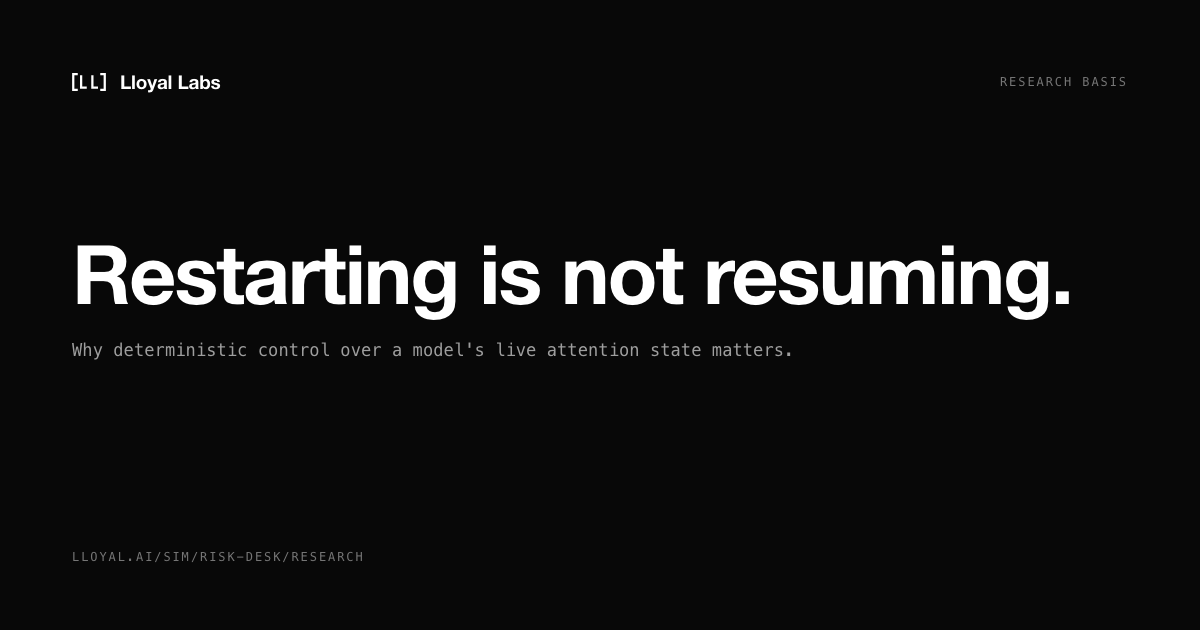
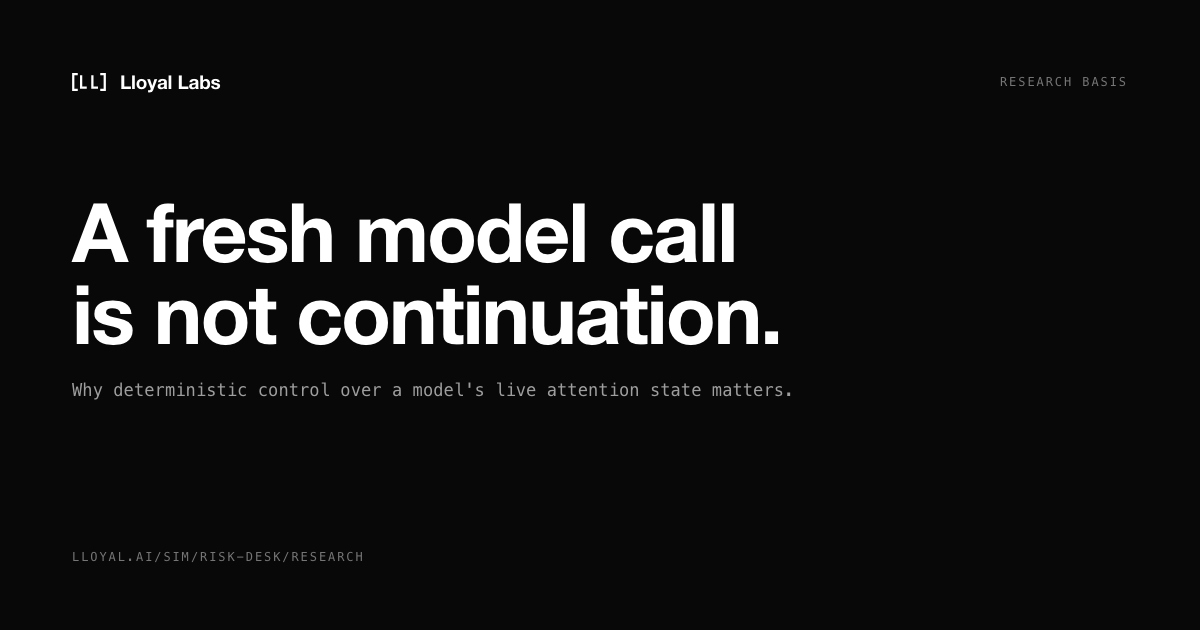
site: the research basis, revised
The thesis line becomes "The transcript can survive. The execution
already underway does not." and the conflict finding becomes
"Superseding evidence is not just more context" — both closer to what
the simulation now shows.

Card follows: "A fresh model call is not continuation." The previous
headline named the remedy; this one names what the reader is doing
wrong. The alt text already said so, so the image was the thing out of
step.

Changed region(s): [[0.0617, 0.3016, 0.8942, 0.573], [0.0617, 0.6032, 0.6475, 0.6333]]

diff --git a/public/sim/risk-desk/research.html b/public/sim/risk-desk/research.html
@@ -362,7 +362,7 @@
   <meta property="og:image:width" content="1200">
   <meta property="og:image:height" content="630">
   <meta property="og:image:type" content="image/png">
-  <meta property="og:image:alt" content="Restarting is not resuming. The research basis for Lloyal live-attention control.">
+  <meta property="og:image:alt" content="A fresh model call is not continuation. The research basis for Lloyal live-attention control.">
   <meta property="og:url" content="https://lloyal.ai/sim/risk-desk/research">
   <meta property="og:site_name" content="LLoyal Labs">
   <meta property="og:locale" content="en_AU">
@@ -371,7 +371,7 @@
   <meta name="twitter:title" content="Why control over live attention matters">
   <meta name="twitter:description" content="Why Lloyal's deterministic control over live attention state matters — published research and operating evidence.">
   <meta name="twitter:image" content="https://lloyal.ai/assets/sim-risk-desk-research-og.png">
-  <meta name="twitter:image:alt" content="Restarting is not resuming. The research basis for Lloyal live-attention control.">
+  <meta name="twitter:image:alt" content="A fresh model call is not continuation. The research basis for Lloyal live-attention control.">
 </head>
 <body>
   <main class="page">
@@ -394,15 +394,15 @@
         <ul>
           <li><strong>Calling a model endpoint again is a new draw, not continuation.</strong> Agent runs diverge early, and nominally deterministic hosted settings do not guarantee the same execution.</li>
           <li><strong>New evidence creates a control problem inside inference.</strong> Applications need to decide which live trajectories receive it, what may continue and which state can become the future—not merely append another prompt chunk.</li>
-          <li><strong>Lloyal makes the instantiated trajectory application state.</strong> Application code can hold a lineage, admit evidence only where it applies, fork from that exact parent state and determine what may continue—without starting intelligence again from its transcript.</li>
+          <li><strong>Lloyal makes the instantiated trajectory application state.</strong> Application code can hold a lineage, admit evidence only where it applies, fork from that exact parent state and determine what may continue—without assembling a new prompt from the transcript and starting another model execution.</li>
         </ul>
       </div>
     </section>
 
     <section class="thesis wrap">
       <div class="thesis-grid">
-        <h2>Restarting preserves a transcript. It does not preserve the execution already underway.</h2>
-        <p><strong>The literature converges on four pressures:</strong> reruns diverge early, hosted calls vary under nominally deterministic settings, corrected evidence creates a conflict problem, and replaying a transcript cannot recover the live state that produced it.</p>
+        <h2>The transcript can survive. The execution already underway does not.</h2>
+        <p><strong>Three findings are empirical:</strong> independent runs diverge early, hosted calls vary under nominally deterministic settings, and conflict and position affect how evidence is used. <strong>The architectural fact is simpler:</strong> a transcript records an execution’s outputs, not the live model state that produced them.</p>
       </div>
     </section>
 
@@ -434,7 +434,7 @@
 
       <article class="finding">
         <div class="finding-num">03</div>
-        <h3>A corrected fact is not merely another prompt chunk.</h3>
+        <h3>Superseding evidence is not just more context.</h3>
         <div class="finding-copy">
           <p>Models often recognise that evidence conflicts while struggling to pinpoint the conflicting spans and generate robust responses. Separate ICLR research found confirmation bias when supportive and contradictory evidence coexist.</p>
           <a class="paper-link" href="https://arxiv.org/abs/2310.00935" target="_blank" rel="noopener">Resolving Knowledge Conflicts</a><br>
@@ -447,7 +447,7 @@
         <div class="finding-num">04</div>
         <h3>Where evidence appears changes whether it is used.</h3>
         <div class="finding-copy">
-          <p>Peer-reviewed TACL research found that changing the position of relevant information can significantly change model performance. Results were often strongest at the beginning or end of the context and degraded in the middle—even for long-context models. Rebuilding a prompt or appending a correction is not semantically neutral.</p>
+          <p>Peer-reviewed TACL research found that changing the position of relevant information can significantly change model performance. Results were often strongest at the beginning or end of the context and degraded in the middle—even for long-context models. Where the transcript and new evidence appear in a fresh prompt can change how the model uses them.</p>
           <a class="paper-link" href="https://aclanthology.org/2024.tacl-1.9/" target="_blank" rel="noopener">Lost in the Middle</a>
         </div>
         <div class="metric green"><strong>Position matters</strong><span>Inside supported context</span></div>
@@ -457,7 +457,7 @@
     <div class="signal-strip" aria-label="Research convergence">
       <div class="signal"><div class="label">Reliability</div><strong>Agent reruns are not behaviourally interchangeable.</strong></div>
       <div class="signal"><div class="label">Inference</div><strong>A fresh endpoint call cannot resume the same instantiated execution.</strong></div>
-      <div class="signal"><div class="label">Evidence</div><strong>Stale and corrected facts create a reasoning conflict.</strong></div>
+      <div class="signal"><div class="label">Evidence</div><strong>Old and superseding evidence create a reasoning conflict.</strong></div>
       <div class="signal"><div class="label">Admission</div><strong>Where evidence enters can change whether it is used.</strong></div>
     </div>
 
@@ -473,19 +473,19 @@
         <article class="source">
           <div class="rank">01</div>
           <div><h3>On Randomness in Agentic Evals</h3><div class="meta">Bjarnason, Silva &amp; Monperrus · KTH · arXiv preprint v3 · 2026</div></div>
-          <p>The most direct support for “a restart is a new trajectory,” backed by 60,000 agent runs and token-level divergence analysis.</p>
+          <p>The most direct support that an independent rerun becomes a new trajectory, backed by 60,000 agent runs and token-level divergence analysis.</p>
           <a class="paper-link" href="https://arxiv.org/abs/2602.07150" target="_blank" rel="noopener">Read paper</a>
         </article>
         <article class="source">
           <div class="rank">02</div>
           <div><h3>Non-Determinism of “Deterministic” LLM System Settings</h3><div class="meta">Atil et al. · Eval4NLP / ACL · 2025</div></div>
-          <p>The peer-reviewed anchor for why a restarted hosted request is not guaranteed to recreate the discarded run.</p>
+          <p>The peer-reviewed anchor for why a fresh hosted request is not guaranteed to recreate the discarded run.</p>
           <a class="paper-link" href="https://aclanthology.org/2025.eval4nlp-1.12/" target="_blank" rel="noopener">Read paper</a>
         </article>
         <article class="source">
           <div class="rank">03</div>
           <div><h3>Resolving Knowledge Conflicts in Large Language Models</h3><div class="meta">Wang et al. · Berkeley / UW / CMU · 2024 revision</div></div>
-          <p>The strongest basis for why leaving the superseded and corrected filings together is not a clean substitute for controlled applicability.</p>
+          <p>The strongest basis for why leaving provisional and final terms together is not a clean substitute for controlled applicability.</p>
           <a class="paper-link" href="https://arxiv.org/abs/2310.00935" target="_blank" rel="noopener">Read paper</a>
         </article>
         <article class="source">
@@ -503,7 +503,7 @@
         <article class="source">
           <div class="rank">06</div>
           <div><h3>Stateful Large Language Model Serving with Pensieve</h3><div class="meta">Yu, Lin &amp; Li · EuroSys · 2025</div></div>
-          <p>The systems anchor for the repeated-work claim: processed state retained across requests rather than reconstructed from the history log.</p>
+          <p>The systems anchor for the repeated-work claim: processed state retained across requests rather than recomputed from the history log.</p>
           <a class="paper-link" href="https://dl.acm.org/doi/10.1145/3689031.3696086" target="_blank" rel="noopener">Read paper</a>
         </article>
       </div>
@@ -577,13 +577,13 @@
       <div class="claim-grid">
         <article class="claim supported">
           <div class="status label">Published research</div>
-          <strong>Restarting is not guaranteed continuation.</strong>
+          <strong>Running the model again is not behaviourally interchangeable.</strong>
           <p>Research directly demonstrates early agent-trajectory divergence and hosted-call variation.</p>
         </article>
         <article class="claim supported">
           <div class="status label">Published research</div>
-          <strong>Reconstructed context is not semantically neutral.</strong>
-          <p>Conflict, ordering and evidence position can materially change how a model reasons.</p>
+          <strong>A fresh prompt can change how prior and new evidence are used.</strong>
+          <p>Conflict, ordering and evidence position can materially change model behaviour.</p>
         </article>
         <article class="claim operating">
           <div class="status label">Lloyal operating evidence</div>
@@ -593,7 +593,7 @@
         <article class="claim definition">
           <div class="status label">What deterministic means</div>
           <strong>Control over live state—not a promise of identical future tokens.</strong>
-          <p>The application deterministically chooses which exact trajectory is held, forked, admitted, continued or pruned. Generation after that decision can remain stochastic.</p>
+          <p>The application deterministically chooses which lineage is held, forked, continued or pruned—and which evidence each lineage receives. Generation after those choices may remain stochastic.</p>
         </article>
       </div>
     </section>
@@ -602,7 +602,7 @@
       <div class="close-grid">
         <div class="label">The architectural shift</div>
         <blockquote>When the world changes during a valuable agent run, conventional applications can preserve a transcript and start another call. Lloyal makes the execution already underway an object ordinary application code can govern.</blockquote>
-        <p>Published research establishes why that distinction compounds with task length: new runs diverge early, conflicting context is hard to reconcile, and rebuilding processed state is costly. The Lloyal-specific claim is application control over live lineage—what continues, what receives new evidence, and which state may become the future.</p>
+        <p>Published research establishes why that distinction compounds with task length: new runs diverge early, conflicting context is hard to reconcile, and reprocessing conversation history is costly. The Lloyal-specific claim is application control over live lineage—what continues, what receives new evidence, and which state may become the future.</p>
       </div>
     </section>
 
